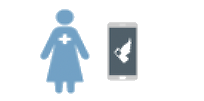
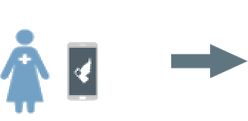
fix arrows

diff --git a/content/en/apps/examples/supervisor-reference-app.md b/content/en/apps/examples/supervisor-reference-app.md
@@ -44,27 +44,27 @@ A Supervisor conducts a CHW monthly meeting with all the CHWs. During the meetin
 
 | CHW monthly meeting workflow |
 |--|--|--|
-|{{< figure src="img1.png">}}|{{< figure src="arrow1.png">}}|{{< figure src="img2.png">}}|
-|**1a Supervisor schedules for a CHW monthly meeting** A supervisor schedules for a CHW monthly meeting by submitting a CHW monthly meeting|                 |**2a CHW monthly meeting task** The task appears 3 days before the due date and the supervisor completes the task during the monthly meeting|
-|**1b The Supervisor can also receive a recurring CHW monthly meeting task every month**| |**2b CHW monthly meeting form** The CHW monthly meeting form can also be accessed through the action on the profile of the supervisor|
-| | |**2c Schedule Monthly Meeting** The Supervisor can schedule the next CHW meeting form using the CHW monthly meeting form or task|
+|{{< figure src="img1.png"  class="right" >}}|{{< figure src="img2.png">}}|
+|**1a Supervisor schedules for a CHW monthly meeting** A supervisor schedules for a CHW monthly meeting by submitting a CHW monthly meeting| **2a CHW monthly meeting task** The task appears 3 days before the due date and the supervisor completes the task during the monthly meeting|
+|**1b The Supervisor can also receive a recurring CHW monthly meeting task every month**| **2b CHW monthly meeting form** The CHW monthly meeting form can also be accessed through the action on the profile of the supervisor|
+| | **2c Schedule Monthly Meeting** The Supervisor can schedule the next CHW meeting form using the CHW monthly meeting form or task|
 
 ### Quality monitoring workflow
 With the supervisor reference app, a supervisor can schedule a quality monitoring visit to assess the quality of services being provided by a CHW. During the quality monitoring visit a supervisor shadows CHWs as they provide services to household members. A supervisor can schedule additional quality monitoring follow up visits for CHWs who are identified to have some weak areas and may need further support and mentorship from the supervisor.
 
 | Supervision quality monitoring workflow |
 |--|--|--|--|--|
-|{{< figure src="img1.png" >}}|{{< figure src="arrow1.png"   >}}|{{< figure src="img1.png" >}}|{{< figure src="arrow1.png" >}}|{{< figure src="img2.png" >}}|
-|**1a Supervisor checks/monitors their in-app CHW aggregate targets** The supervisor checks the in app targets to monitor CHW target progress.| |**2a Quality Monitoring Planning form** The supervisor schedules shadowing/quality monitoring visits with the CHWs that need support through the quality monitoring planning form| |**3a Quality monitoring task** The task appears 2 days before the due date. During the visit the supervisor completes the quality monitoring task|
-|**1b Supervisor UHC mode** Using the UHC mode, the supervisor is able to identify CHWs that have not been visited by a supervisor for a while| | | |**3b Shadowing reminder task** - the task will appear on the CHW app two days before the visit to remind the CHW of the planned shadowing visit|
-| | | | |**3c Quality monitoring form** The quality monitoring form can also be accessed as an action on the profile of the CHW|
-| | | | |**3d Quality Monitoring Follow up task** Just in case a supervisor identifies some weak areas that a CHW need to improve on and be supported, they schedule for a quality monitoring follow up visit|
+|{{< figure src="img1.png"   class="right" >}} | {{< figure src="img1.png"  class="right" >}} | {{< figure src="img2.png" >}}|
+|**1a Supervisor checks/monitors their in-app CHW aggregate targets** The supervisor checks the in app targets to monitor CHW target progress.| **2a Quality Monitoring Planning form** The supervisor schedules shadowing/quality monitoring visits with the CHWs that need support through the quality monitoring planning form| **3a Quality monitoring task** The task appears 2 days before the due date. During the visit the supervisor completes the quality monitoring task|
+|**1b Supervisor UHC mode** Using the UHC mode, the supervisor is able to identify CHWs that have not been visited by a supervisor for a while| | **3b Shadowing reminder task** - the task will appear on the CHW app two days before the visit to remind the CHW of the planned shadowing visit|
+| | | **3c Quality monitoring form** The quality monitoring form can also be accessed as an action on the profile of the CHW|
+| | | **3d Quality Monitoring Follow up task** Just in case a supervisor identifies some weak areas that a CHW need to improve on and be supported, they schedule for a quality monitoring follow up visit|
 ### Group session workflow
 
 | CHW Group session workflow |
 |--|--|--|
-|{{< figure src="img1_1.png"  >}}|{{< figure src="arrow1.png"  >}}|{{< figure src="img3.png" >}}|
-|**1a A CHW organizes for a group session with community members** Group session is a meeting coordinated and organized by CHW with community members to health educate community members of various health topics|                 |**2a Group session form** Supervisor attends the group session meetings, provides supervision, supports the activity and submits the group session form|
+|{{< figure src="img1_1.png" class="right" >}} | {{< figure src="img3.png" >}}|
+|**1a A CHW organizes for a group session with community members** Group session is a meeting coordinated and organized by CHW with community members to health educate community members of various health topics | **2a Group session form** Supervisor attends the group session meetings, provides supervision, supports the activity and submits the group session form|
 
 ### CHW Activity workflow
 A CHW activity task is generated for a supervisor if a CHW has been inactive for 3 months. This workflow enables a supervisor to follow up CHWs who have been inactive for three months and may need to be replaced.
